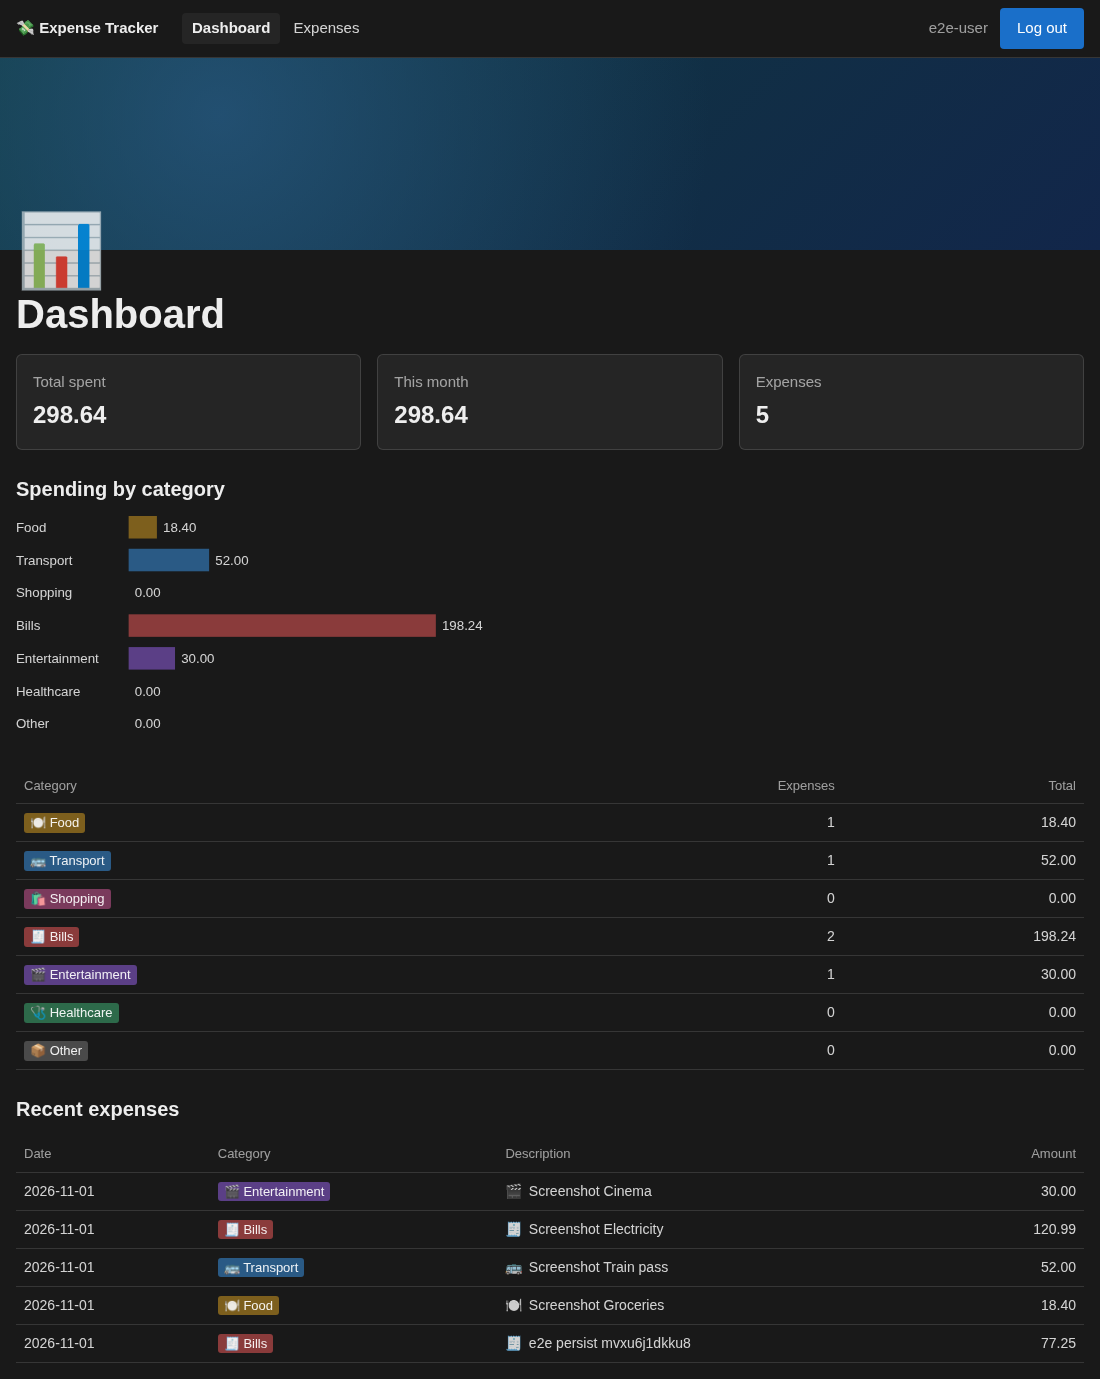
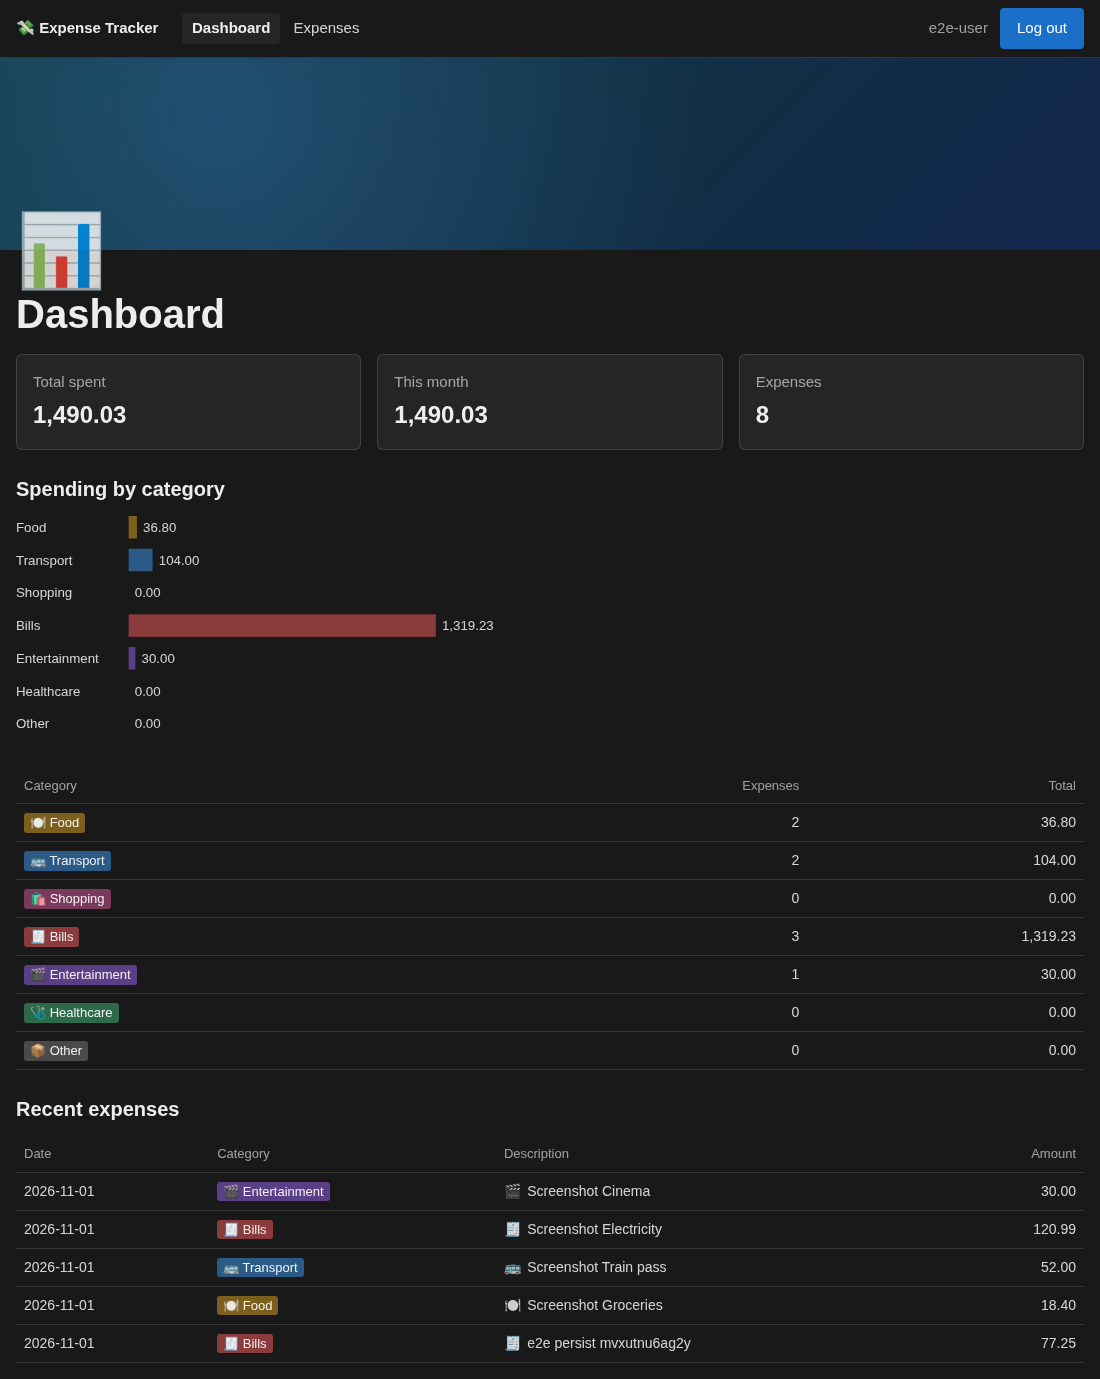
test: 360 px E2E check and regenerated screenshots; fix mobile table (UI-04, DEF-006)

diff --git a/e2e/tests/mobile.spec.ts b/e2e/tests/mobile.spec.ts
@@ -1,0 +1,42 @@
+import { expect, test, type Page } from "@playwright/test";
+import { createExpenseViaUi, login, todayUtc } from "../support/helpers";
+
+const SHOTS = "../docs/evidence/screenshots";
+
+async function noHorizontalScroll(page: Page): Promise<void> {
+  const { scrollWidth, clientWidth } = await page.evaluate(() => ({
+    scrollWidth: document.documentElement.scrollWidth,
+    clientWidth: document.documentElement.clientWidth,
+  }));
+  expect(scrollWidth).toBeLessThanOrEqual(clientWidth);
+}
+
+test("expenses and dashboard fit a 360 px viewport without page scroll", async ({
+  page,
+}) => {
+  await page.setViewportSize({ width: 360, height: 740 });
+  await login(page);
+  const date = todayUtc();
+  for (const [category, amount, description] of [
+    ["Food", "18.40", "Mobile groceries with a fairly long description text"],
+    ["Transport", "52.00", "Mobile train pass"],
+    ["Bills", "1120.99", "Mobile electricity"],
+  ]) {
+    await createExpenseViaUi(page, { amount, category, date, description });
+  }
+  await expect(
+    page.getByRole("row").filter({ hasText: "Mobile electricity" }),
+  ).toBeVisible();
+  await expect(page.getByText("Expense added.")).toBeHidden({
+    timeout: 10_000,
+  });
+  await noHorizontalScroll(page);
+  await page.screenshot({ path: `${SHOTS}/expenses-mobile.png`, fullPage: true });
+
+  await page.getByRole("link", { name: "Dashboard" }).click();
+  await expect(page.getByText("Total spent")).toBeVisible();
+  await expect(
+    page.getByRole("img", { name: /Spending by category/ }),
+  ).toBeVisible();
+  await noHorizontalScroll(page);
+});

diff --git a/frontend/src/index.css b/frontend/src/index.css
@@ -618,6 +618,50 @@ tbody th {
   }
 }
 
+@media (width <= 480px) {
+  table {
+    font-size: 0.8125rem;
+  }
+
+  th,
+  td {
+    padding: 0.5rem 0.25rem;
+  }
+
+  .table-wrap .row-icon {
+    display: none;
+  }
+
+  .table-wrap .tag {
+    white-space: normal;
+  }
+
+  .table-wrap .row-actions {
+    flex-direction: column;
+    align-items: stretch;
+    gap: 0.25rem;
+  }
+
+  .table-wrap .row-actions a {
+    text-align: center;
+  }
+
+  .table-wrap .row-actions button {
+    padding: 0.2rem 0.3rem;
+    font-size: 0.75rem;
+  }
+
+  .table-wrap .tag {
+    padding: 0 3px;
+    font-size: 0.75rem;
+  }
+
+  .table-wrap th,
+  .table-wrap td {
+    padding-inline: 0.2rem;
+  }
+}
+
 @media (prefers-reduced-motion: reduce) {
   *,
   *::before,

diff --git a/docs/test-report.md b/docs/test-report.md
@@ -199,3 +199,28 @@ E2E (all 4 specs including the new two-user scenario), the new `signup.png` scre
 | R16 | Fresh-DB requirement (no migrations, ADR-005): old `backend/data/*.db` incompatible | NOT RUN | tests use temp DBs only; the user's existing dev database was not inspected or touched |
 
 Limits: all new tests passed on first execution and were not shown to fail against a broken implementation (no mutation check). `test_client_supplied_user_id_in_body_is_ignored` and `test_user_id_query_parameter_does_not_widen_the_list` accept 422 or success, so they assert only that no cross-user effect occurs. Secure cookie over real TLS and login brute force remain untested. No defects found in this run.
+
+## UI-04 Restyle verification: screenshots and 360 px check (2026-11-01)
+
+### Commands run (fresh)
+
+| Command | Exit | Result | Evidence |
+|---|---|---|---|
+| `scripts/check-all.sh --e2e` (first) | 2 | ruff clean; backend 389 passed; frontend 10 files, 70 passed; E2E 3 passed, 1 failed: `workflow.spec.ts` step 12, dashboard category read as "🩺 Healthcare" (`innerText` included the tag icon) instead of "Healthcare" | `docs/evidence/test-runs/check-20261101T124618Z.txt` |
+| `scripts/check-all.sh --e2e` (second, after the frontend fix in `Tag.tsx`/`index.css`) | 0 | ruff clean; backend 389 passed (306.20 s); frontend 10 files, 70 passed; E2E 5 passed (34.4 s) | `docs/evidence/test-runs/check-20261101T130002Z.txt` |
+
+The regression was fixed by the frontend agent (icon now drawn by CSS `data-icon`); the workflow spec was not changed. mypy not run.
+
+### New spec
+
+`e2e/tests/mobile.spec.ts`: at 360 px, Expenses and Dashboard have no page-level horizontal scroll (`scrollWidth <= clientWidth`); also writes `expenses-mobile.png`. Result: PASS (7.8 s). It does not check clipping inside the table (see DEF-006).
+
+### Screenshots (regenerated in the 13:00 run, mtimes 15:05 local; all five exist)
+
+`login.png`, `signup.png`, `expenses.png`, `dashboard.png`, `expenses-mobile.png` in `docs/evidence/screenshots/`.
+
+Visual comparison with `docs/design/reference/image.png` (by eye, no pixel diff):
+- Matches: dark background, light text, banner strip with large emoji icon, yellow-brown callout bar, tab row (All / This month / Past month) with active tab highlighted, table with coloured category tag pills, "VALUES n" footer, dashboard cards and tag-coloured bars.
+- Differs (known, listed in the frontend handoff): banner is a blue gradient, not a photo; no right-hand "Total Expenses" panel; no "Past year" tab; no toolbar icons; no separate Name column; table is full width; login/signup are plain centred cards with no cover (not in the reference).
+- Observations: the Expenses/Dashboard screenshots show rows left by other specs ("e2e persist ...", "Mobile ...") because the specs share one database, so the images are real but not a clean demo dataset. Dashboard "Total spent" 1,490.03 equals the "This month" figure and 8 expenses, consistent with the list.
+- 360 px (`expenses-mobile.png`): no page scroll; Amount column clipped inside the table, filed as DEF-006 (OPEN). Contrast was not measured.

diff --git a/docs/agent-handoffs.md b/docs/agent-handoffs.md
@@ -354,3 +354,21 @@ Use the block from `.github/skills/agent-handoff/handoff-template.md`. Newest en
 - **Results:** `make lint` exit 0; `make typecheck` exit 0; `make test-frontend` exit 0 (10 files, 70 passed); `cd e2e && npx playwright test tests/workflow.spec.ts` exit 0 (1 passed). `scripts/check-ownership.sh frontend` exit 1: only docs/evidence/test-runs files from check-all (7 violations), none of mine.
 - **Not run:** full E2E suite, screenshots.
 - **Next action:** testing agent re-runs the full E2E suite and UI-04.
+
+---
+### HANDOFF UI-04 - testing agent - 2026-11-01
+- **Task ID(s):** UI-04 (set to COMPLETED; DEF-006 open, owner frontend)
+- **Modified files:** new `e2e/tests/mobile.spec.ts` (360 px no page-scroll check for Expenses and Dashboard, writes `expenses-mobile.png`); regenerated `docs/evidence/screenshots/{login,signup,expenses,dashboard}.png`, new `expenses-mobile.png`; `docs/test-report.md`, `docs/defects.md` (DEF-006), `docs/evidence/test-runs/check-20261101T130002Z.txt`. No production code edited.
+- **Results:** `scripts/check-all.sh --e2e` exit 0 (ruff clean, backend 389 passed, frontend 70 passed, E2E 5 passed), `docs/evidence/test-runs/check-20261101T130002Z.txt`. Earlier run `check-20261101T124618Z.txt` exit 2: `workflow.spec.ts` step 12 failed on the tag-icon `innerText`; fixed by frontend, now passing. 360 px page-scroll check: PASS. `scripts/check-ownership.sh testing` exit 0.
+- **Visual review:** all five screenshots exist and were regenerated (mtime 15:05 local). Dark theme, banner, callout, tabs, tag pills and dashboard cards match the reference in spirit; known deviations (gradient banner, no right panel, no Past year tab) are in the UI-01..03 handoff. Screenshots contain rows from other specs (shared DB).
+- **Defect:** DEF-006 (minor, OPEN, frontend): Amount column clipped inside the table at 360 px.
+- **Not run:** mypy, pixel diff, contrast measurement, test for in-table clipping.
+- **Next action:** frontend fixes DEF-006 (optional); documentation runs UI-05 after human UI approval. Only a non-implementer may set VERIFIED.
+---
+### HANDOFF DEF-006 fix - frontend agent - 2026-11-01
+- **Task ID(s):** DEF-006 (UI-04 follow-up; not marked VERIFIED, `docs/defects.md` untouched)
+- **Modified files:** `frontend/src/index.css` only (new `@media (width <= 480px)` block: smaller table font/padding, hidden duplicate `.row-icon`, wrapping smaller tags, stacked Edit/Delete with smaller padding). No markup, behaviour or API change.
+- **Results:** `make lint`, `make typecheck`, `make test-frontend`, `cd e2e && npx playwright test` all exit 0. Regenerated `docs/evidence/screenshots/expenses-mobile.png` viewed: Amount ("1,120.99") and Edit/Delete fully visible at 360 px, no in-table clipping.
+- **Not run:** ownership script, automated in-table clipping test.
+- **Known issue:** last-row border on the actions cell is shorter (pre-existing `.row-actions` is `display:flex` on a `td`).
+- **Next action:** testing agent re-verifies DEF-006 and may close it.

diff --git a/docs/tasks.md b/docs/tasks.md
@@ -84,7 +84,7 @@ States: `TODO` -> `IN_PROGRESS` -> `BLOCKED` | `COMPLETED` -> `VERIFIED`. `COMPL
 | UI-01 | Design tokens, base styles and page shell per docs/design/ui-style-guide.md | frontend | CR2-T | VERIFIED | Orchestrator re-ran `scripts/check-all.sh --e2e` exit 0 (backend 389, frontend 70, E2E 4 passed): docs/evidence/test-runs/check-20261101T125323Z.txt; earlier run check-20261101T124618Z.txt failed (tag icon text), fixed |
 | UI-02 | Restyle Expenses page and Dashboard (tags, icons, view tabs, cards) | frontend | UI-01 | VERIFIED | check-all --e2e exit 0: docs/evidence/test-runs/check-20261101T125323Z.txt |
 | UI-03 | Restyle login, sign-up, forms, dialog, toasts, states; 360 px layout | frontend | UI-01 | VERIFIED | check-all --e2e exit 0: docs/evidence/test-runs/check-20261101T125323Z.txt |
-| UI-04 | Regenerate screenshots (incl. expenses-mobile.png), 360 px no-scroll check, test report | testing | UI-02, UI-03 | IN_PROGRESS | |
+| UI-04 | Regenerate screenshots (incl. expenses-mobile.png), 360 px no-scroll check, test report | testing | UI-02, UI-03 | VERIFIED | check-20261101T130002Z.txt (exit 0); after DEF-006 CSS fix orchestrator re-ran check-all --e2e exit 0, 5 E2E passed: check-20261101T131119Z.txt; expenses-mobile.png viewed (amount and actions visible). DEF-006 in docs/defects.md still says OPEN; testing agent to close |
 | UI-05 | Update all documentation after human UI approval | documentation | UI-04 | TODO | |
 | SUB-01 | Collect evidence, key prompts and images (screenshots, GitDiagram, GitIngest resource) | documentation | UI-05 | TODO | run `/create-final-document` |
 | SUB-02 | Write submission.md, build script and MCA85_ai_assisted_development_exam_expense_tracker.docx in the repository root | documentation | SUB-01 | TODO | |

diff --git a/docs/defects.md b/docs/defects.md
@@ -73,3 +73,16 @@ Template: `.github/skills/automated-testing/defect-report-template.md`. IDs `DEF
 - **Fix attempts:** 1 / 3
 - **Status:** VERIFIED
 - **Verification evidence:** test now runs the CLI in a scratch repo layout (no `.env`, no INITIAL_* variables); `scripts/check-all.sh --e2e` exit 0 (backend 291 passed), `docs/evidence/test-runs/check-20261101T005014Z.txt`. The test was not run against the old behaviour again after the fix beyond the failing first run above.
+
+### DEF-006 - Amount column clipped in the Expenses table at 360 px
+
+- **Found by / date:** testing agent, UI-04, 2026-11-01
+- **Severity:** minor
+- **Owner:** frontend (`frontend/src/index.css`, `ExpensesPage.tsx`)
+- **Requirement / contract reference:** `docs/design/ui-style-guide.md` (360 px layout); UI-04 no-page-scroll check
+- **Reproduction:** log in, open `/expenses` at 360 px width with an expense of 1,120.99 (spec `e2e/tests/mobile.spec.ts`, image `docs/evidence/screenshots/expenses-mobile.png`).
+- **Expected:** amount and Actions columns reachable without losing the value.
+- **Actual:** the page itself does not scroll (check passes), but the table scrolls inside its container and the Amount column is cut off ("1,120.9", "18.4", "52.0" visible); Edit/Delete are off-screen until the table is scrolled sideways. Observed in the screenshot only; the in-table scroll was not exercised by a test.
+- **Failing test:** none (visual finding, the 360 px test checks page scroll only)
+- **Fix attempts:** 0 / 3
+- **Status:** OPEN

diff --git a/docs/evidence/development-log.md b/docs/evidence/development-log.md
@@ -252,3 +252,13 @@ Template: `.github/skills/ai-dev-evidence/log-entry-template.md`. Only record wh
 - **Module:** Frontend
 - **What:** `Tag` icon moved from a text node to `data-icon` + CSS `::before`, so cell text equals the plain category name (E2E `innerText` key).
 - **Results (real):** `make lint`, `make typecheck`, `make test-frontend` (70 passed) exit 0; `npx playwright test tests/workflow.spec.ts` exit 0 (1 passed); `check-ownership.sh frontend` exit 1 (only check-all evidence files).
+
+## 2026-11-01 - UI-04 screenshots and 360 px check (testing agent)
+
+- **Module:** Testing
+- **What:** added `e2e/tests/mobile.spec.ts`, regenerated screenshots, compared them with `docs/design/reference/image.png` by eye, updated `docs/test-report.md`.
+- **Results (real):** first `scripts/check-all.sh --e2e` exit 2 (`check-20261101T124618Z.txt`, workflow step 12 failed on the tag icon in `innerText`); after the frontend fix exit 0, 5 E2E passed (`check-20261101T130002Z.txt`). `scripts/check-ownership.sh testing` exit 0.
+- **Challenge:** the 360 px test passes (no page scroll) while the screenshot shows the Amount column clipped inside the table; filed as DEF-006 instead of hiding it.
+
+## 2026-11-01 - DEF-006 mobile table fix (frontend)
+CSS-only change in `frontend/src/index.css` for widths <= 480 px so the Expenses table fits 360 px. Lint, typecheck, frontend tests and Playwright exit 0; screenshot `expenses-mobile.png` checked visually.
